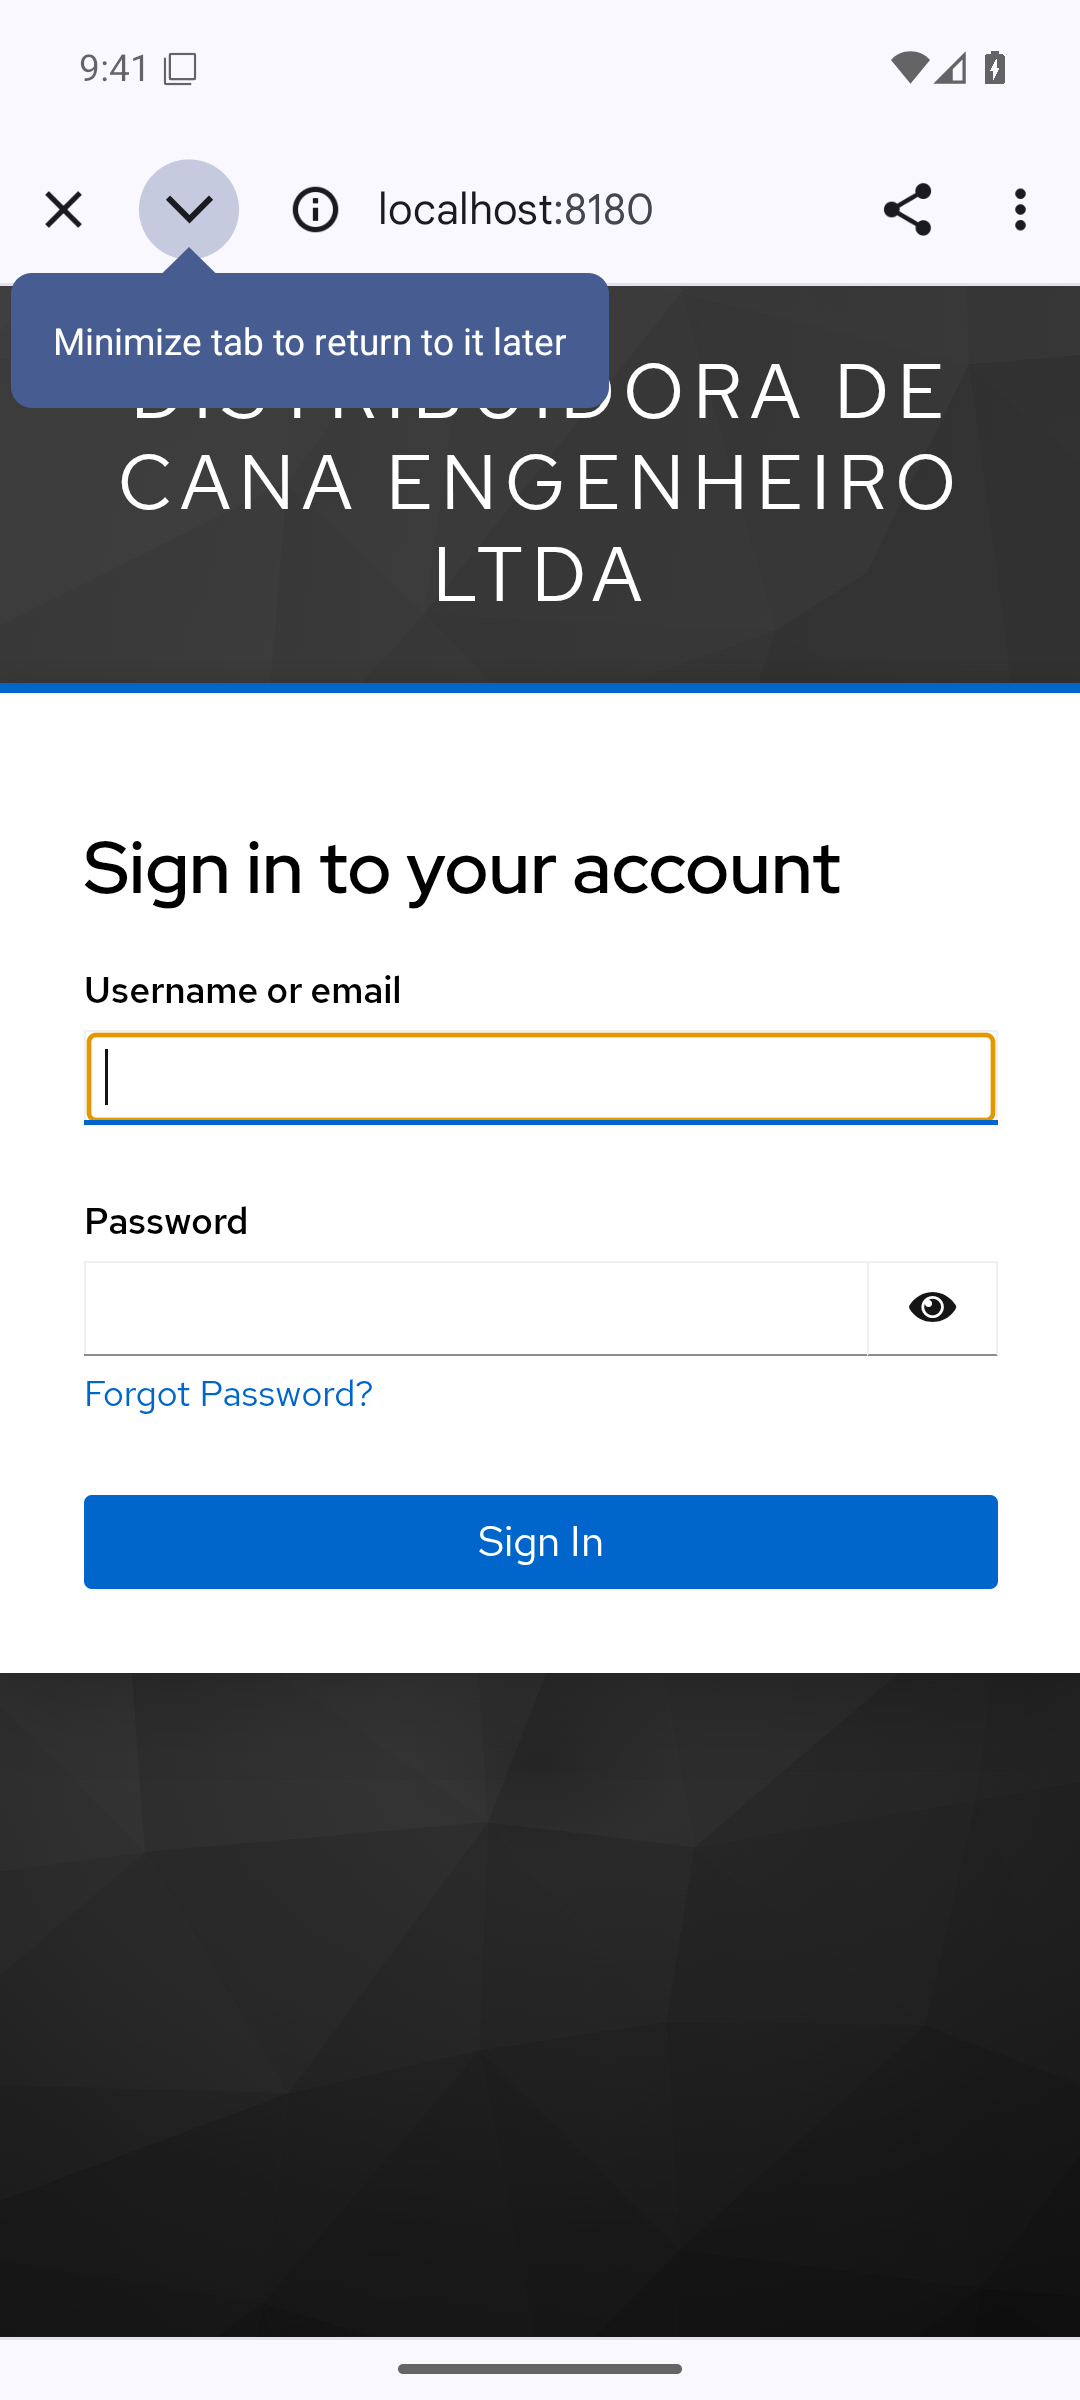
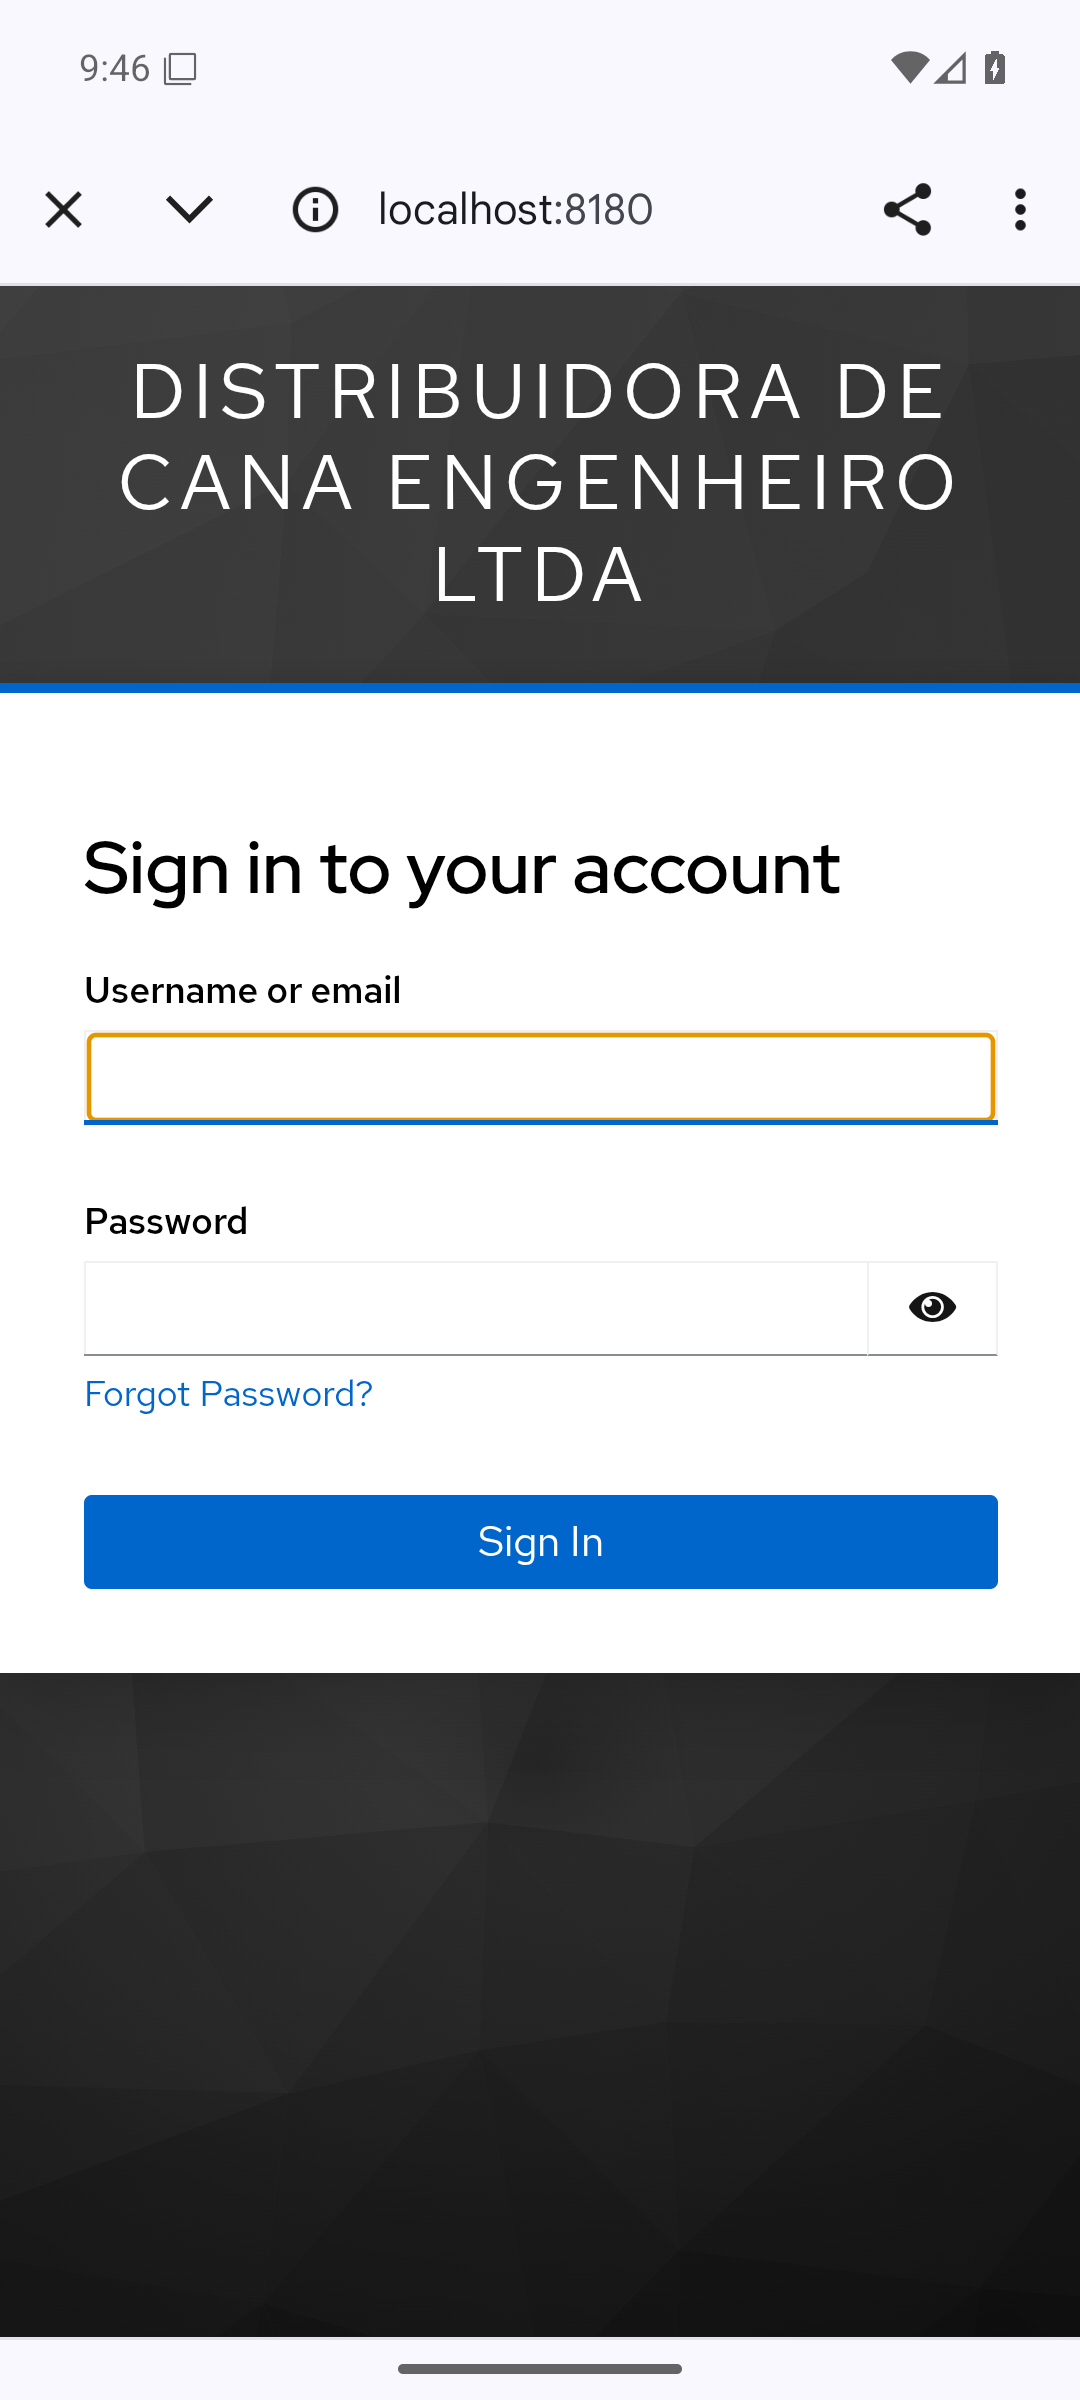
F02 (apps): login ponta a ponta nos 4 apps; corrige retorno do OIDC no Android
- Remove android:taskAffinity="" das MainActivity: o redirect do login abria
  em outra tarefa e o AppAuth descartava a resposta ("No stored state").
- Evidência com Keycloak real: balcao, motorista.a, contador e patrao (com TOTP)
  entram e veem o shell do perfil; balcao no app Contábil é recusado e auditado;
  Central do Patrão filtra por app de origem.
- Scripts de login móvel por adb e de cadastro de TOTP via DevTools remoto.
- Checkpoint: F02 PASS (Android).

Claude-Session: https://claude.ai/code/session_01REw53iCLhjK3nowvvdinV5

Changed region(s): [[0.0, 0.0625, 0.5806, 0.1875]]

diff --git a/infra/local/e2e_totp_mobile.py b/infra/local/e2e_totp_mobile.py
@@ -1,0 +1,30 @@
+# Cadastro do TOTP do patrão na Custom Tab do emulador via DevTools remoto (adb forward tcp:9333 localabstract:chrome_devtools_remote).
+# Requer o pacote websockets. Uso: python3 infra/local/e2e_totp_mobile.py
+import asyncio, json, sys, time, hmac, hashlib, struct, urllib.request
+import websockets
+
+def totp(secret_raw, t=None):
+    c = int((t or time.time()) // 30)
+    d = hmac.new(secret_raw.encode(), struct.pack(">Q", c), hashlib.sha1).digest()
+    o = d[-1] & 0x0F
+    return "%06d" % ((struct.unpack(">I", d[o:o + 4])[0] & 0x7FFFFFFF) % 1_000_000)
+
+async def main():
+    pages = json.load(urllib.request.urlopen("http://localhost:9333/json"))
+    ws_url = next(p["webSocketDebuggerUrl"] for p in pages if "CONFIGURE_TOTP" in p["url"])
+    async with websockets.connect(ws_url, max_size=None) as ws:
+        n = 0
+        async def ev(expr):
+            nonlocal n; n += 1
+            await ws.send(json.dumps({"id": n, "method": "Runtime.evaluate", "params": {"expression": expr, "returnByValue": True}}))
+            while True:
+                m = json.loads(await ws.recv())
+                if m.get("id") == n: return m["result"]["result"].get("value")
+        secret = await ev("document.querySelector('[name=totpSecret]').value")
+        code = totp(secret)
+        r = await ev(f"""(()=>{{const f=document.querySelector('[name=totpSecret]').form;
+            f.querySelector('#totp').value='{code}';
+            const l=f.querySelector('#userLabel'); if(l) l.value='Emulador F02';
+            f.submit(); return 'enviado';}})()""")
+        print(r, "(segredo lido:", "sim" if secret else "não", ")")
+asyncio.run(main())

diff --git a/docs/CHECKPOINT.md b/docs/CHECKPOINT.md
@@ -1,10 +1,10 @@
 # Checkpoint
 
-Data/hora e fuso: 15/11/2026 09:45 America/Sao_Paulo
+Data/hora e fuso: 15/11/2026 10:00 America/Sao_Paulo
 Agente e repositório: Claude Code (Opus 5.5) — `/home/louvens/distribuidora-engenheiro`
 Branch e commit atual: `main` — ver `git log -1`
-Fase: F02 em andamento (web feita; 4 apps gerados e abertos no emulador; login móvel ponta a ponta pendente)
-Gate: F00 **PASS** · F01 **PASS** (com limites) · F02 **IN_PROGRESS** · F03 **IN_PROGRESS** (fatia clientes)
+Fase: F02 concluída (web + 4 apps com login ponta a ponta no emulador)
+Gate: F00 **PASS** · F01 **PASS** (com limites) · F02 **PASS** (Android; iOS sem macOS) · F03 **IN_PROGRESS** (fatia clientes)
 
 ## Entregue e comprovado
 
@@ -58,8 +58,11 @@ API: `/audit-events?client_id=` (atividades por app de origem, para a Central do
 - Toolchain móvel: `F02-toolchain-mobile.txt`.
 - Apps: `flutter analyze` limpo, **29 testes Dart**; 4 APKs debug gerados, instalados e abertos no emulador API 36 (processo vivo,
   MainActivity em primeiro plano) — `F02-mobile-apks-emulador.txt`, capturas em `docs/evidence/telas-mobile/`.
-- Login móvel: sem rota ao IdP mostra erro de conexão (sem sessão falsa); com `adb reverse` abre Custom Tab no login do Keycloak.
-  Troca do código → `/me` → shell **não exercitada** (falta `ENGENHEIRO_SENHA_LOCAL` na sessão).
+- Login móvel ponta a ponta com Keycloak real nos 4 apps (balcao, motorista.a, contador, patrao com cadastro de TOTP): shell por
+  capacidade, campos ocultos pela política, sessão persistente, Sair; balcao no app Contábil → "Sem permissão" com código igual
+  ao `request_id` auditado; Central do Patrão filtra por app (`client_id`). Corrigido: `taskAffinity=""` nos manifests quebrava o
+  retorno do login (AppAuth "No stored state").
+  Sem rota ao IdP: erro de conexão, sem sessão falsa.
 - Backend com filtro `client_id`: `./mvnw verify` → **78 testes, 0 falhas**.
 
 Problemas encontrados e corrigidos nesta etapa: seed local como `V1000` impedia novas migrations (agora `R__` idempotente,
@@ -68,7 +71,7 @@ com teste); tabela estourava a largura no celular por texto `visually-hidden` ab
 
 ## Limites do gate F01 (explícitos)
 
-- Login nos 4 apps móveis: fluxo vai até o formulário do Keycloak; conclusão pendente da senha local. A API já aceita/nega por client (`azp`).
+- Login móvel testado por script adb (`infra/local/e2e_login_mobile.sh`), não por `integration_test`; só Android.
 - Critério "pedido/anexo de outra unidade por ID" provado com **clientes**; reverificar em pedidos (F04) e documentos (F07)
   usando o mesmo `requireRecord`/`ScopeSql`.
 - Canais SSE/websocket ainda não existem; revogação nesses canais será testada quando forem criados.
@@ -97,7 +100,4 @@ ENGENHEIRO_SENHA_LOCAL=... python3 -I ../../infra/local/e2e_login_web.py
 
 ## Próxima ação
 
-1. **F02 (apps) — fechar o gate**: com `ENGENHEIRO_SENHA_LOCAL`, `adb reverse tcp:8180 tcp:8180` e `tcp:8081`, entrar em cada app
-   com o usuário certo (patrao/balcao/motorista.a/contador), comprovar `/me` 200 e destinos por capacidade; entrar com usuário
-   de outro app → recusa; logout. Automatizar com `integration_test` ou script adb.
-2. **F03**: produtos/medidas/conversões, fornecedores, recebimentos e estoque com concorrência (B01, B10, B11).
+1. **F03**: produtos/medidas/conversões, fornecedores, recebimentos e estoque com concorrência (B01, B10, B11).
